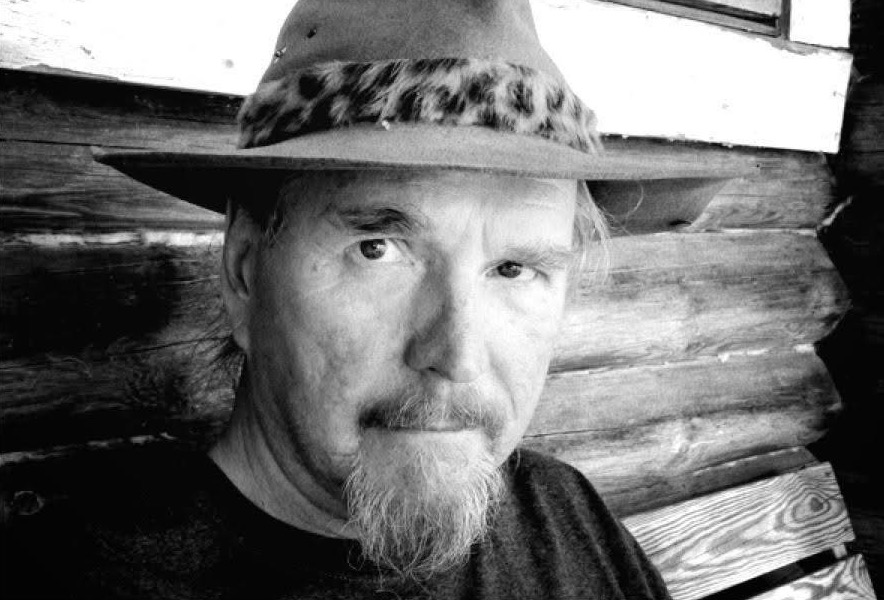
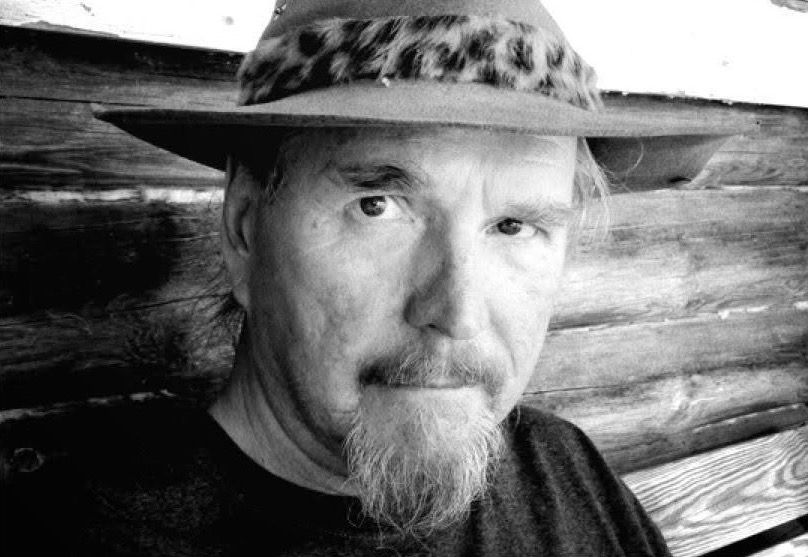
Vesa Oja Page 1

diff --git a/content/memoriam/vesa-oja.md b/content/memoriam/vesa-oja.md
@@ -10,18 +10,29 @@ excerpt: "Staff photographer, Helsingin Sanomat, 1978–2012. Creator of The Oth
 Vesa Oja was born in Lahti on 25 August 1953, the youngest child in a large family.  
 He graduated from Launeen Yhteislyseo in 1973 and qualified as a photographer at the Lahti Institute of Design in 1976. He was appointed as a staff photographer at Helsingin Sanomat, largest newspaper in Finland, in 1978 and retired in 2012 after a long career.
 
-![Vesa Oja](/media/memoriam/vesa-oja/sniper_alley_vesa_oja_color.jpg)
-_Photo by Kalle Koponen_
+![Vesa Oja](/media/memoriam/vesa-oja/sniper_alley_vesa_oja_banner_young.JPG)  
 
 As a photojournalist, Vesse belonged to the first generation of formally trained photographers in the field in Finland. His education provided a strong and versatile foundation for work that, especially in the era of film and darkroom printing, demanded speed, confidence, ingenuity, and patience.  
 
 Vesse was a photographer with all his heart and soul. He was easily inspired by a wide range of subjects and approached everything with care and dedication. Some themes drew him deeply into the layers of human history. His project The Other Europe, published as a book and exhibition in 1999, brought together nearly two decades of journalistic work across a region stretching from the Balkans to the Baltics. Vesse's The Other Europe is a humane yet stark document from the extreme edges of human experience. The seemingly straightforward documentary nature of the photographs conceals endless references and raises questions about the ultimate meaning of culture, civilization, and politics. In 1996, Vesse received the Finland Award from the Arts Council of Finland.  
 
-Another of Vesse's best-known projects took him among the Finglish communities living in the United States and Canada. The term "Finglish" refers to immigrants from Finland to North America and their descendants. Countless journeys resulted in a vivid, colorful, and ethnographically fascinating body of photographs and interviews. The book and exhibition Finglish – Photographs of Finns in North America were completed in 2013.  
+![Vesa Oja](/media/memoriam/vesa-oja/sniper_alley_vesa_oja_color.jpg)
+_Photo by Kalle Koponen_
+
+Another of Vesse's best-known projects took him among the Finglish communities living in the United States and Canada. The term "Finglish" refers to immigrants from Finland to North America and their descendants. Countless journeys resulted in a vivid, colorful, and ethnographically fascinating body of photographs and interviews. The book and exhibition Finglish – Photographs of Finns in North America were completed in 2013.
+
+![Vesa Oja](/media/memoriam/vesa-oja/sniper_alley_vesa_oja_project.JPG)
+
+Here you can find 100 unpublished portraits of Finns in North America, photographed at the FinnGrandFest 2005 in
+Marquette, MI, USA: https://www.finglish.fi/about
 
 Vesse's work was also highly respected by his colleagues, who valued the attitude and vision it embodied.
 
+![Vesa Oja](/media/memoriam/vesa-oja/sniper_alley_vesa_oja_profile.jpg)
+
 Vesse followed his own path. He was a reliable professional in everyday work, yet also he perceived broader contexts and cause-and-effect relationships. The arrival of his Harley-Davidson and flowing ponytail always brought a sense of warmth and joy. Behind the ponytail was a thoughtful, sensitive, and slightly enigmatic person.
+
+![Vesa Oja](/media/memoriam/vesa-oja/sniper_alley_vesa_oja_banner_bike.JPG)
 
 In his free time, Vesse would pick up a book or a guitar and enjoy art and culture, from concerts to opera. In the summers, he explored familiar wilderness areas, foraging for mushrooms and berries, and fishing.  
 
@@ -30,12 +41,14 @@ By his own description, Vesse was an aesthete, whose character also included pre
 Vesa “Vesse” Oja passed away in Helsinki on February 25, 2026 after a short illness.  
 He had glioblastoma, aggressive brain cancer. He was 72 years old.  
 
-Vesse is greatly missed by his spouse, two children, and three grandchildren.  
+Vesse is greatly missed by his spouse, two children and three grandchildren.  
 
-__
+
+
+__  
 
 Cover photo by Kalle Koponen  
 Special thanks to  
-Riitta Raatikainen, PhD, journalist
-Rauli Virtanen, journalist
-Maiju Oja, daughter
+Riitta Raatikainen, PhD, journalist  
+Rauli Virtanen, journalist  
+Maiju Oja, daughter  

diff --git a/content/photographers/vesa-oja.md b/content/photographers/vesa-oja.md
@@ -2,8 +2,9 @@
 name: "Vesa Oja"
 born: 1953
 died: 2026
+memoriam: vesa-oja
 role: Photojournalist
-portrait: sniper_alley_vesa_oja_01.jpeg
+portrait: sniper_alley_vesa_oja_18.jpeg
 photos:
   - file: sniper_alley_vesa_oja_01.jpeg
     caption: "Sarajevo, Bosnia and Herzegovina, 1996."
@@ -15,7 +16,7 @@ photos:
     caption: "Sarajevo, Bosnia and Herzegovina, 1995."
     credit: "Photo Copyright © Vesa Oja"
   - file: sniper_alley_vesa_oja_04.jpeg
-    caption: "Sarajevo, Bosnia and Herzegovina, 1994."
+    caption: "Amila Sehovic & Suad Tupkovic Wedding - Sarajevo, Bosnia and Herzegovina, 1994."
     credit: "Photo Copyright © Vesa Oja"
   - file: sniper_alley_vesa_oja_05.jpeg
     caption: "Sarajevo, Bosnia and Herzegovina, 1994."
@@ -57,9 +58,34 @@ photos:
     caption: "Sarajevo, Bosnia and Herzegovina, 1994."
     credit: "Photo Copyright © Vesa Oja"
   - file: sniper_alley_vesa_oja_18.jpeg
-    caption: "Music Band - Sarajevo, Bosnia and Herzegovina, 1994."
+    caption: "Music Band GNU - Mirza Coric, Adnan Durakovic & Alen Podgorica - Sarajevo, Bosnia and Herzegovina, 1994."
     credit: "Photo Copyright © Vesa Oja"
   - file: sniper_alley_vesa_oja_19.jpeg
     caption: "Ballet - Sarajevo, Bosnia and Herzegovina, 1994."
     credit: "Photo Copyright © Vesa Oja"
+  - file: sniper_alley_vesa_oja_20.JPG
+    caption: "Amila Sehovic & Suad Tupkovic Wedding - Sarajevo, Bosnia and Herzegovina, 1994."
+    credit: "Photo Copyright © Vesa Oja"
+  - file: sniper_alley_vesa_oja_21.JPG
+    caption: "Amila Sehovic & Suad Tupkovic Wedding - Sarajevo, Bosnia and Herzegovina, 1994."
+    credit: "Photo Copyright © Vesa Oja"
+  - file: sniper_alley_vesa_oja_22.JPG
+    caption: "Amila Sehovic & Suad Tupkovic Wedding - Sarajevo, Bosnia and Herzegovina, 1994."
+    credit: "Photo Copyright © Vesa Oja"
+  - file: sniper_alley_vesa_oja_23.JPG
+    caption: "Amila Sehovic & Suad Tupkovic Wedding - Sarajevo, Bosnia and Herzegovina, 1994."
+    credit: "Photo Copyright © Vesa Oja"
+  - file: sniper_alley_vesa_oja_24.JPG
+    caption: "Music Band GNU - Mirza Coric, Adnan Durakovic & Alen Podgorica - Sarajevo, Bosnia and Herzegovina, 1994."
+    credit: "Photo Copyright © Vesa Oja"
+  - file: sniper_alley_vesa_oja_25.JPG
+    caption: "Music Band GNU - Mirza Coric, Adnan Durakovic & Alen Podgorica - Sarajevo, Bosnia and Herzegovina, 1994."
+    credit: "Photo Copyright © Vesa Oja"
+  - file: sniper_alley_vesa_oja_26.JPG
+    caption: "Music Band GNU - Mirza Coric, Adnan Durakovic & Alen Podgorica - Sarajevo, Bosnia and Herzegovina, 1994."
+    credit: "Photo Copyright © Vesa Oja"
+  - file: sniper_alley_vesa_oja_27.JPG
+    caption: "Music Band GNU - Mirza Coric, Adnan Durakovic & Alen Podgorica - Sarajevo, Bosnia and Herzegovina, 1994."
+    credit: "Photo Copyright © Vesa Oja"
 ---
+
